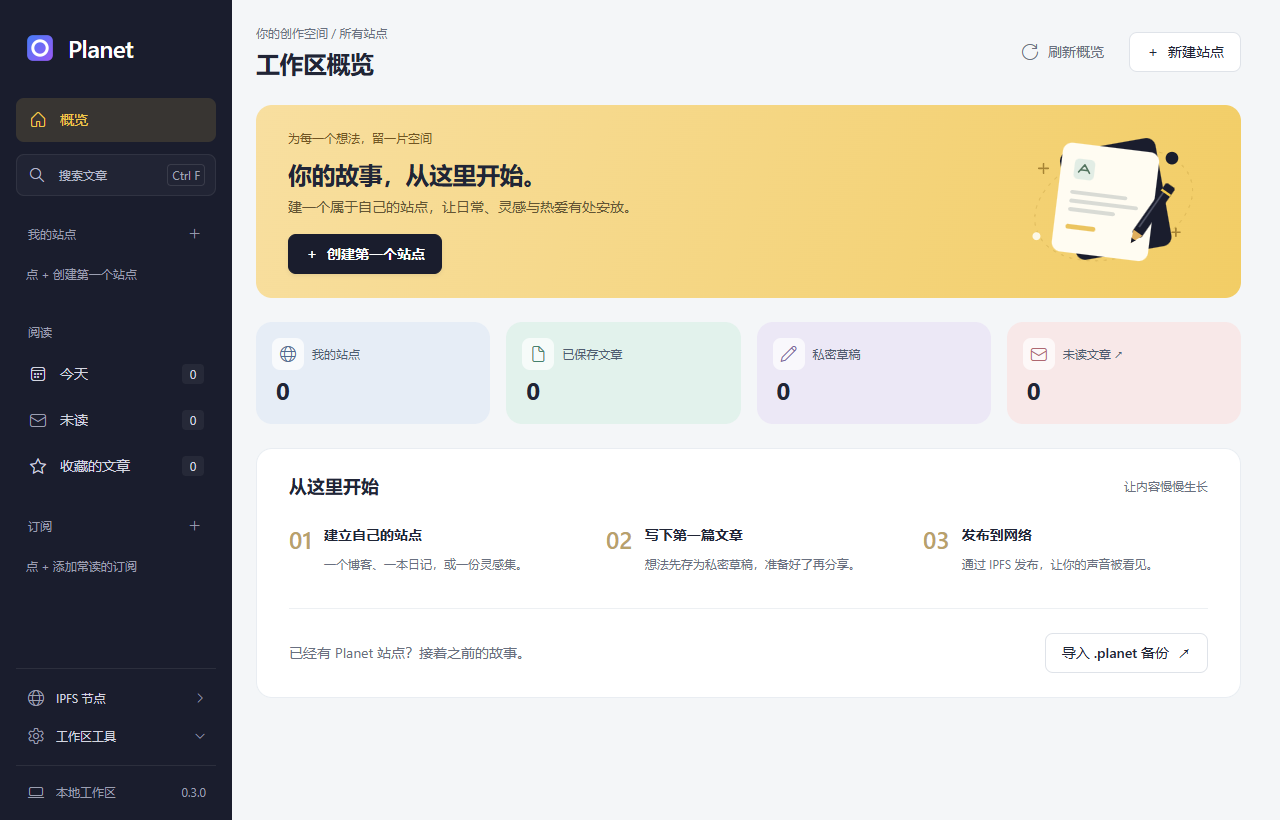
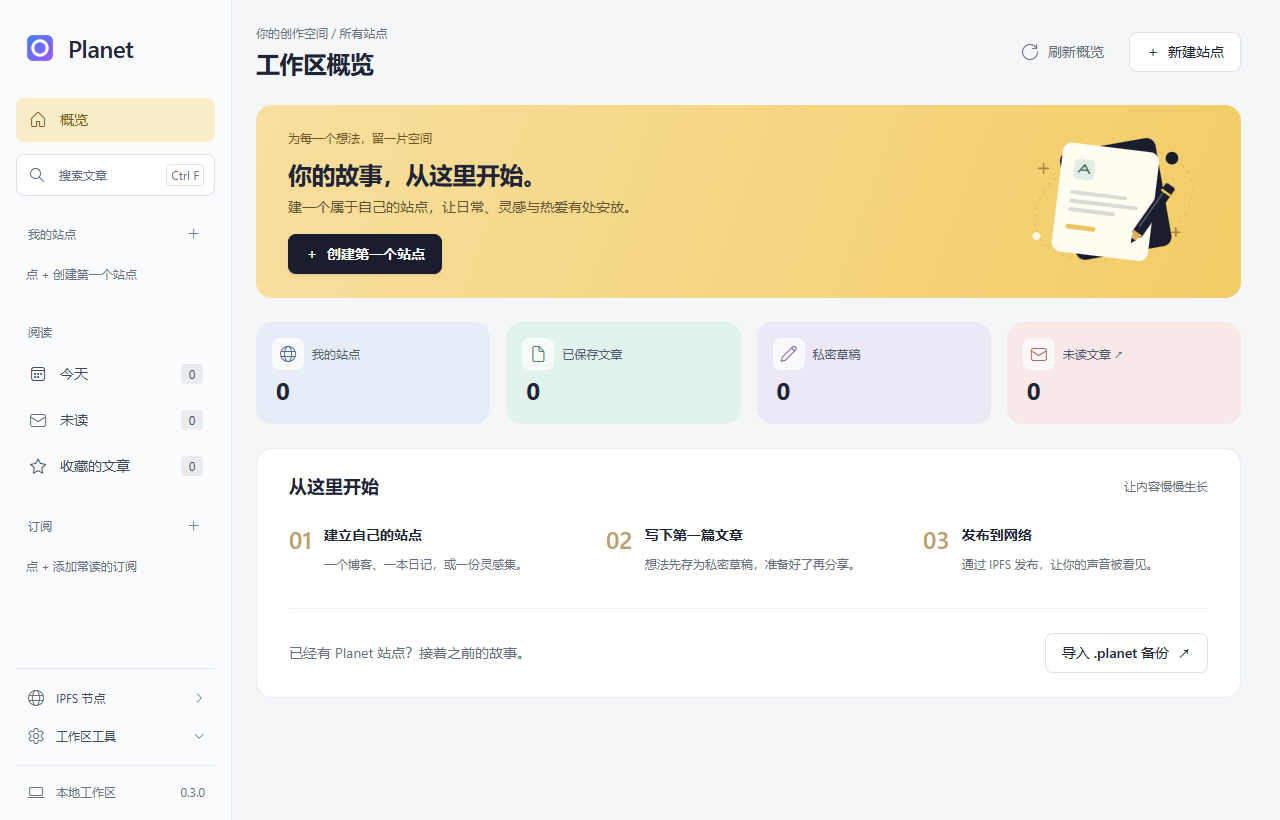
fix: use a light sidebar with readable amber selection

Changed region(s): [[0.0, 0.0, 0.1875, 1.0]]

diff --git a/windows/src/dashboard.css b/windows/src/dashboard.css
@@ -1,25 +1,25 @@
-/* Shared dark navigation, with a warm and quiet overview canvas. */
-.shell > .sidebar { --nav-text:#d4d6e0; --nav-muted:#9c9fb1; --nav-line:#ffffff14; --focus:#f2c94c; background:#1a1d2d; border-right:0; padding:32px 16px 16px; font-family:"Segoe UI","Microsoft YaHei",sans-serif; }
-.sidebar .brand { color:#fff; padding:0 8px 32px; gap:12px; font-size:24px; letter-spacing:-.5px; }
+/* Light navigation keeps the amber writing area as the main visual accent. */
+.shell > .sidebar { --nav-text:#414b5b; --nav-muted:#687284; --nav-line:#e4e8ef; --focus:#8a641b; background:#fafbfc; border-right:1px solid var(--nav-line); padding:32px 16px 16px; font-family:"Segoe UI","Microsoft YaHei",sans-serif; }
+.sidebar .brand { color:#252a38; padding:0 8px 32px; gap:12px; font-size:24px; letter-spacing:-.5px; }
 .sidebar .planet-mark { width:32px; height:32px; }
 .sidebar .smart-action,.sidebar .site-item { border:0; border-radius:8px; padding:12px; gap:12px; }
-.sidebar .smart-action:hover,.sidebar .site-item:hover,.sidebar-bottom #show-ipfs-status:hover,.sidebar-tools summary:hover,.sidebar-tools .sidebar-action:hover { color:#fff; background:#ffffff0a; }
-.sidebar .smart-action.active,.sidebar .site-item.active { color:#f2c94c; background:#f2c94c24; }
-.sidebar .active .system-icon { color:#f2c94c; }
-.sidebar .section-label .icon-button:hover { color:#fff; background:#ffffff14; }
+.sidebar .smart-action:hover,.sidebar .site-item:hover,.sidebar-bottom #show-ipfs-status:hover,.sidebar-tools summary:hover,.sidebar-tools .sidebar-action:hover { color:#252a38; background:#eef1f5; }
+.sidebar .smart-action.active,.sidebar .site-item.active { color:#795b15; background:#f9edca; }
+.sidebar .active .system-icon { color:#876215; }
+.sidebar .section-label .icon-button:hover { color:#252a38; background:#eef1f5; }
 .sidebar .section-label { padding:0 12px; }
-.sidebar .smart-count,.sidebar .subscription-count { background:#ffffff0d; color:#b7b9c7; }
-.sidebar .active .smart-count,.sidebar .active .subscription-count { color:#f2c94c; background:#f2c94c14; }
-.sidebar #show-search { margin:8px 0 24px; color:#b7bacb; background:#ffffff08; border-color:#ffffff12; }
-.sidebar #show-search:hover { color:#fff; background:#ffffff0e; border-color:#ffffff26; }
-.sidebar #show-search kbd { color:#a2a5b8; border-color:#ffffff1c; font-size:12px; }
-.sidebar .sites .site-item:nth-child(n) .site-icon { background:#ffffff0d; color:#c5c8d6; }
-.sidebar .sites .site-item.active .site-icon { background:#f2c94c1f; color:#f2c94c; }
-.sidebar .sidebar-scroll { scrollbar-color:#44485b transparent; }
-.sidebar .sidebar-tools-content { background:#24283b; border-color:#ffffff24; }
-.sidebar .gateway-setting .choice-group label:has(:checked) { color:#f2c94c; background:#f2c94c14; border-color:#f2c94c38; }
-.sidebar .gateway-setting input { accent-color:#f2c94c; }
-.sidebar .site-error { color:#ecc27b; }
+.sidebar .smart-count,.sidebar .subscription-count { background:#e9edf2; color:#626c7d; }
+.sidebar .active .smart-count,.sidebar .active .subscription-count { color:#795b15; background:#efe0b6; }
+.sidebar #show-search { margin:8px 0 24px; color:#626c7d; background:#fff; border-color:#dde2e9; }
+.sidebar #show-search:hover { color:#252a38; background:#fff; border-color:#b8c1cf; }
+.sidebar #show-search kbd { color:#687284; border-color:#dfe4eb; font-size:12px; }
+.sidebar .sites .site-item:nth-child(n) .site-icon { background:#e9edf3; color:#607086; }
+.sidebar .sites .site-item.active .site-icon { background:#efe0b6; color:#795b15; }
+.sidebar .sidebar-scroll { scrollbar-color:#c3cad4 transparent; }
+.sidebar .sidebar-tools-content { background:#fff; border-color:#dfe4eb; }
+.sidebar .gateway-setting .choice-group label:has(:checked) { color:#795b15; background:#f9edca; border-color:#e4cc8d; }
+.sidebar .gateway-setting input { accent-color:#8a641b; }
+.sidebar .site-error { color:#9b5e10; }
 .sidebar-footer { padding-top:16px; }
 #show-dashboard { margin-bottom:4px; }
 .shell.dashboard-mode { grid-template-columns:232px minmax(0,1fr); }

diff --git a/docs/superpowers/specs/2026-11-05-workspace-dashboard-design.md b/docs/superpowers/specs/2026-11-05-workspace-dashboard-design.md
@@ -1,12 +1,12 @@
 # Workspace dashboard
 
-The user selected an all-sites startup overview and authorized direct implementation. After rejecting the initial appearance, the visual revision adopts the user's supplied navy navigation and amber accent direction. Preserve Windows typography and existing editor/reader workflows.
+The user selected an all-sites startup overview and authorized direct implementation. Use light navigation with amber accents, following the user's preference for a light sidebar. Preserve Windows typography and existing editor/reader workflows.
 
 The default view is Overview. Show active-site, article, private-draft and unread counts; six recently modified drafts and six articles across active sites; site publication states; an on-demand IPFS status panel; and optional per-site Plausible queries using the existing configured service. Never invent analytics or replace missing/error results with zero. Show a useful empty state with create/import actions.
 
 Use a read-only Store snapshot under one lock, returning metadata only (no bodies, attachments, credentials or network requests). Exclude removed/deleting sites and their content. Sort recent items by modification time with deterministic ties. Reuse existing navigation and unsaved-change guards. Entering the dashboard invalidates pending navigation, and late responses cannot switch views or overwrite a newer refresh. Refresh on dashboard entry and when existing publication/subscription state changes.
 
-Use 24/18/14/12px typography, 4px spacing units, 8px controls and 16px panels on a cold light-gray canvas. The shared sidebar is navy with amber selection. The overview leads with an amber writing area and a local decorative SVG, then four pastel metrics. Drafts form a compact two-column grid; articles remain scannable rows, with publication/service information alongside. Empty workspaces have a direct create action, three-step introduction and import action. Keep navigation labels at the normal 1280px window size. Collapse the dashboard auxiliary column before navigation; metrics become two columns on narrow windows. Validate the 860px minimum window and increased text/display scale. All actions are keyboard accessible with visible focus, safe text rendering and explicit loading/error/retry states.
+Use 24/18/14/12px typography, 4px spacing units, 8px controls and 16px panels on a cold light-gray canvas. The shared sidebar is near-white with pale amber selection and dark amber selected text. The overview leads with an amber writing area and a local decorative SVG, then four pastel metrics. Drafts form a compact two-column grid; articles remain scannable rows, with publication/service information alongside. Empty workspaces have a direct create action, three-step introduction and import action. Keep navigation labels at the normal 1280px window size. Collapse the dashboard auxiliary column before navigation; metrics become two columns on narrow windows. Validate the 860px minimum window and increased text/display scale. All actions are keyboard accessible with visible focus, safe text rendering and explicit loading/error/retry states.
 
 Approaches considered: repurpose the current three-column reader (poor space use for cross-site content); load all articles/drafts through frontend calls (copies private bodies and scales poorly); a dedicated metadata snapshot and dashboard module (selected implementation).
 

diff --git a/CHANGELOG.md b/CHANGELOG.md
@@ -11,7 +11,7 @@ User-facing changes are recorded here. Release entries use `MAJOR.MINOR.PATCH` a
 
 ### Added
 
-- An all-sites startup overview with local content totals, recent drafts and articles, publication states, and on-demand IPFS and Plausible access. The overview uses dark navigation, an amber writing area, and a guided empty workspace.
+- An all-sites startup overview with local content totals, recent drafts and articles, publication states, and on-demand IPFS and Plausible access. The overview uses light navigation with amber selection, an amber writing area, and a guided empty workspace.
 - A single `bun run check` command for Go formatting and static analysis, frontend and Go tests, TypeScript checks and the frontend production build.
 - Optional Git hooks to catch staged whitespace errors before commits and run the shared checks before pushes.
 - A Chinese Git workflow guide covering branches, focused commits, pull requests, versioning and mirror synchronization.

diff --git a/docs/superpowers/plans/2026-11-05-workspace-dashboard.md b/docs/superpowers/plans/2026-11-05-workspace-dashboard.md
@@ -9,7 +9,7 @@
 
 ## Global Constraints
 
-- No new dependencies; use the revised navy/amber overview design and Windows system fonts.
+- No new dependencies; use the light sidebar and amber overview design with Windows system fonts.
 - Metadata only; exclude removed/deleting sites; at most six recent drafts and articles.
 - No fabricated metrics or automatic external analytics queries.
 - Preserve unsaved edits, latest-request ownership, safe text rendering and keyboard access.
